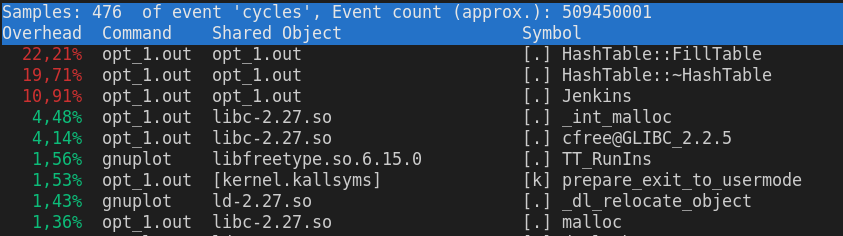
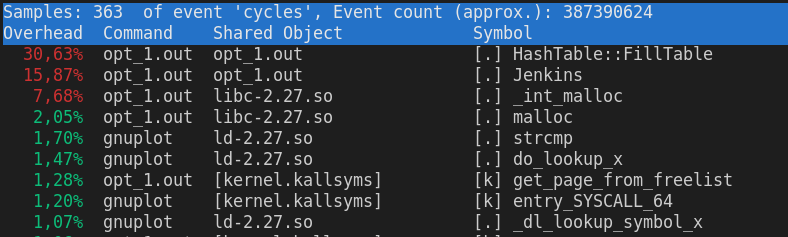
optimisation analysis pics

Changed region(s): [[0.0, 0.0, 1.0, 1.0], [0.3959, 0.9788, 0.4264, 1.0]]

diff --git a/NewHashTable/HashTable.hpp b/NewHashTable/HashTable.hpp
@@ -116,6 +116,6 @@ class HashTable {
 
     
     HashTable () { table = new List [table_size](); }
-    ~HashTable () { delete[] table; }
+    //~HashTable () { delete[] table; }
 
 };
